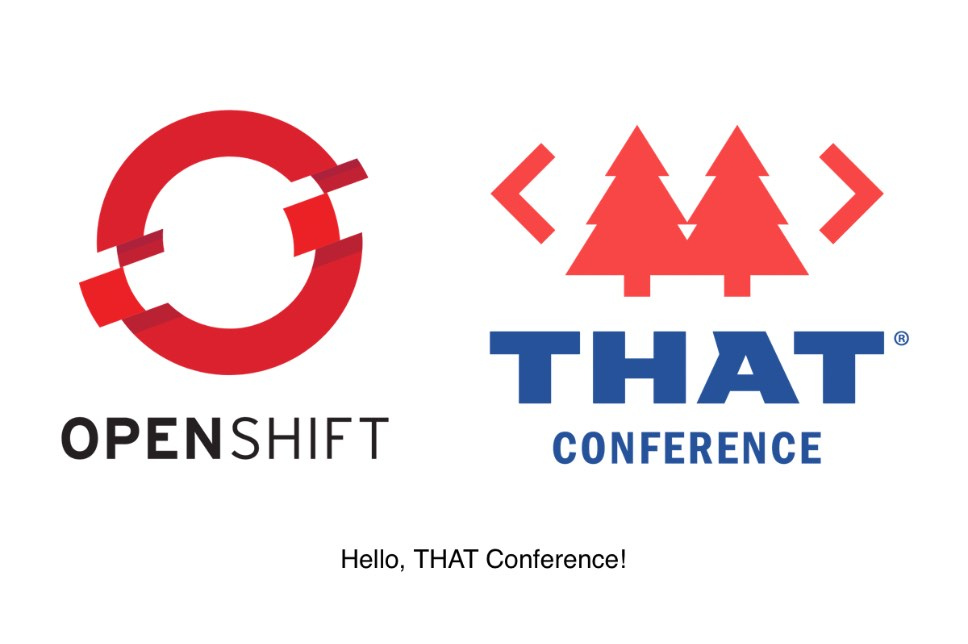
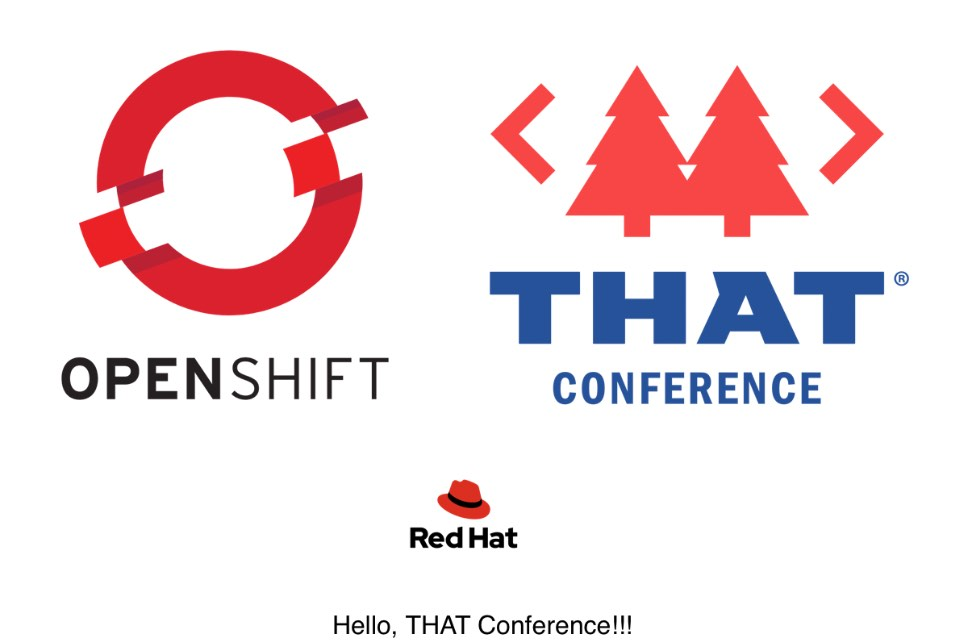
Changed index page

diff --git a/ocpthat.hyperesources/ocpthat_hype_generated_script.js b/ocpthat.hyperesources/ocpthat_hype_generated_script.js
@@ -3,5 +3,5 @@
 (function(){(function m(){function k(a,b,c,d){var e=!1;null==window[a]&&(null==window[b]?(window[b]=[],window[b].push(m),a=document.getElementsByTagName("head")[0],b=document.createElement("script"),e=l,false==!0&&(e=""),b.type="text/javascript",""!=d&&(b.integrity=d,b.setAttribute("crossorigin","anonymous")),b.src=e+"/"+c,a.appendChild(b)):window[b].push(m),e=!0);return e}var l="ocpthat.hyperesources",f="ocpthat",g="ocpthat_hype_container";if(false==
 !1)try{for(var c=document.getElementsByTagName("script"),a=0;a<c.length;a++){var d=c[a].src,b=null!=d?d.indexOf("/ocpthat_hype_generated_script.js"):-1;if(-1!=b){l=d.substr(0,b);break}}}catch(p){}c=navigator.userAgent.match(/MSIE (\d+\.\d+)/);c=parseFloat(c&&c[1])||null;d=!0==(null!=window.HYPE_736F||null!=window.HYPE_dtl_736F)||false==!0||null!=c&&10>c;a=!0==d?"HYPE-736.full.min.js":"HYPE-736.thin.min.js";c=!0==d?"F":"T";d=d?"":
 "";if(false==!1&&(a=k("HYPE_736"+c,"HYPE_dtl_736"+c,a,d),false==!0&&(a=a||k("HYPE_w_736","HYPE_wdtl_736","HYPE-736.waypoints.min.js","")),false==!0&&(a=a||k("Matter","HYPE_pdtl_736","HYPE-736.physics.min.js","")),a))return;d=window.HYPE.documents;if(null!=d[f]){b=1;a=f;do f=""+a+"-"+b++;while(null!=d[f]);for(var e=document.getElementsByTagName("div"),
-b=!1,a=0;a<e.length;a++)if(e[a].id==g&&null==e[a].getAttribute("HYP_dn")){var b=1,h=g;do g=""+h+"-"+b++;while(null!=document.getElementById(g));e[a].id=g;b=!0;break}if(!1==b)return}b=[];b=[];e={};h={};for(a=0;a<b.length;a++)try{h[b[a].identifier]=b[a].name,e[b[a].name]=eval("(function(){return "+b[a].source+"})();")}catch(n){window.console&&window.console.log(n),e[b[a].name]=function(){}}c=new window["HYPE_736"+c](f,g,{"3":{p:1,n:"Pasted-1_2x.png",g:"8",o:true,t:"@2x"},"1":{p:1,n:"Pasted_2x.png",g:"6",o:true,t:"@2x"},"-2":{n:"blank.gif"},"-1":{n:"PIE.htc"},"2":{p:1,n:"Pasted-1.png",g:"8",o:true,t:"@1x"},"0":{p:1,n:"Pasted.png",g:"6",o:true,t:"@1x"}},l,[],e,[{n:"Untitled Scene",o:"1",X:[0]}],
-[{o:"3",p:"600px",cA:false,Y:600,Z:400,L:[],c:"#FFF",bY:1,d:600,U:{},T:{kTimelineDefaultIdentifier:{q:false,z:3,i:"kTimelineDefaultIdentifier",n:"Main Timeline",a:[{f:"c",y:0,z:2,i:"e",e:1,s:0,o:"13"},{f:"c",y:0,z:2,i:"e",e:1,s:0,o:"12"},{f:"c",y:0,z:3,i:"e",e:1,s:-0.081718388,o:"11"},{y:2,i:"e",s:1,z:0,o:"13",f:"c"},{y:2,i:"e",s:1,z:0,o:"12",f:"c"},{y:3,i:"e",s:1,z:0,o:"11",f:"c"}],f:30,b:[]}},bZ:180,O:["12","14","13","11"],n:"Untitled Layout","_":0,v:{"13":{h:"8",p:"no-repeat",x:"visible",a:267,q:"100% 100%",b:0,j:"absolute",r:"inline",z:2,bF:"14",dB:"img",d:241,k:"div",c:269,e:0},"12":{w:"",h:"6",p:"no-repeat",x:"visible",a:0,q:"100% 100%",b:0,j:"absolute",bF:"14",r:"inline",z:1,dB:"img",d:229,k:"div",c:215,e:0},"11":{aV:8,w:"Hello, THAT Conference!",a:203,x:"visible",Z:"break-word",y:"preserve",j:"absolute",r:"inline",b:330,yy:"nowrap",s:"Helvetica,Arial,Sans-Serif",z:1,aS:8,t:16,e:-0.081718388,aT:8,aU:8,G:"#000",k:"div"},"14":{x:"visible",k:"div",c:536,d:241,z:2,e:1,a:32,j:"absolute",b:62}}}],{},h,{},null,false,true,-1,true,true,false,true,true);d[f]=c.API;document.getElementById(g).setAttribute("HYP_dn",f);c.z_o(this.body)})();})();
+b=!1,a=0;a<e.length;a++)if(e[a].id==g&&null==e[a].getAttribute("HYP_dn")){var b=1,h=g;do g=""+h+"-"+b++;while(null!=document.getElementById(g));e[a].id=g;b=!0;break}if(!1==b)return}b=[];b=[];e={};h={};for(a=0;a<b.length;a++)try{h[b[a].identifier]=b[a].name,e[b[a].name]=eval("(function(){return "+b[a].source+"})();")}catch(n){window.console&&window.console.log(n),e[b[a].name]=function(){}}c=new window["HYPE_736"+c](f,g,{"3":{p:1,n:"Pasted-1_2x.png",g:"8",o:true,t:"@2x"},"-2":{n:"blank.gif"},"4":{p:1,n:"Logo-RedHat-B-Color-RGB.png",g:"12",o:true,t:"@1x"},"0":{p:1,n:"Pasted.png",g:"6",o:true,t:"@1x"},"5":{p:1,n:"Logo-RedHat-B-Color-RGB_2x.png",g:"12",o:true,t:"@2x"},"1":{p:1,n:"Pasted_2x.png",g:"6",o:true,t:"@2x"},"-1":{n:"PIE.htc"},"2":{p:1,n:"Pasted-1.png",g:"8",o:true,t:"@1x"}},l,[],e,[{n:"Untitled Scene",o:"1",X:[0]}],
+[{o:"3",p:"600px",cA:false,Y:600,Z:400,L:[],c:"#FFF",bY:1,d:600,U:{},T:{kTimelineDefaultIdentifier:{q:false,z:3,i:"kTimelineDefaultIdentifier",n:"Main Timeline",a:[{f:"c",y:0,z:2,i:"e",e:1,s:0,o:"15"},{f:"c",y:0,z:3,i:"e",e:1,s:0,o:"18"},{f:"c",y:0,z:3,i:"b",e:25,s:62,o:"14"},{f:"c",y:0,z:3,i:"a",e:32,s:32,o:"14"},{f:"c",y:0,z:3,i:"b",e:297,s:315,o:"18"},{f:"c",y:0,z:3,i:"a",e:254,s:254,o:"18"},{f:"c",y:0,z:2,i:"e",e:1,s:0,o:"16"},{f:"c",y:0,z:3,i:"e",e:1,s:-0.081718388,o:"17"},{y:2,i:"e",s:1,z:0,o:"15",f:"c"},{y:2,i:"e",s:1,z:0,o:"16",f:"c"},{y:3,i:"e",s:1,z:0,o:"18",f:"c"},{y:3,i:"b",s:25,z:0,o:"14",f:"c"},{y:3,i:"a",s:32,z:0,o:"14",f:"c"},{y:3,i:"b",s:297,z:0,o:"18",f:"c"},{y:3,i:"a",s:254,z:0,o:"18",f:"c"},{y:3,i:"e",s:1,z:0,o:"17",f:"c"}],f:30,b:[]}},bZ:180,O:["16","14","15","18","17"],n:"Untitled Layout","_":0,v:{"17":{aV:8,w:"Hello, THAT Conference!!!",a:198,x:"visible",Z:"break-word",y:"preserve",j:"absolute",r:"inline",b:371,yy:"nowrap",s:"Helvetica,Arial,Sans-Serif",z:1,aS:8,t:16,e:-0.081718388,aT:8,aU:8,G:"#000",k:"div"},"16":{w:"",h:"6",p:"no-repeat",x:"visible",a:0,q:"100% 100%",b:0,j:"absolute",bF:"14",r:"inline",z:1,dB:"img",d:229,k:"div",c:215,e:0},"15":{h:"8",p:"no-repeat",x:"visible",a:267,q:"100% 100%",b:0,j:"absolute",r:"inline",z:2,bF:"14",dB:"img",d:241,k:"div",c:269,e:0},"18":{h:"12",p:"no-repeat",x:"visible",a:254,dB:"img",q:"100% 100%",j:"absolute",r:"inline",z:3,b:315,k:"div",d:43,c:67,e:0},"14":{x:"visible",k:"div",c:536,d:241,z:2,e:1,a:32,j:"absolute",b:62}}}],{},h,{},null,false,true,-1,true,true,false,true,true);d[f]=c.API;document.getElementById(g).setAttribute("HYP_dn",f);c.z_o(this.body)})();})();

diff --git a/index.html b/index.html
@@ -24,7 +24,7 @@
 	<!-- copy these lines to your document: -->
 
 	<div id="ocpthat_hype_container" class="HYPE_document" style="margin:auto;position:relative;width:600px;height:400px;overflow:hidden;">
-		<script type="text/javascript" charset="utf-8" src="ocpthat.hyperesources/ocpthat_hype_generated_script.js?9149"></script>
+		<script type="text/javascript" charset="utf-8" src="ocpthat.hyperesources/ocpthat_hype_generated_script.js?24839"></script>
 	</div>
 
 	<!-- end copy -->
@@ -36,7 +36,7 @@
 	<div style="display:none" aria-hidden=true>
 
 		<div></div>
-		<div>Hello, THAT Conference Campers!!!</div>
+		<div>Hello, THAT Conference!!!</div>
 
 	</div>
 
